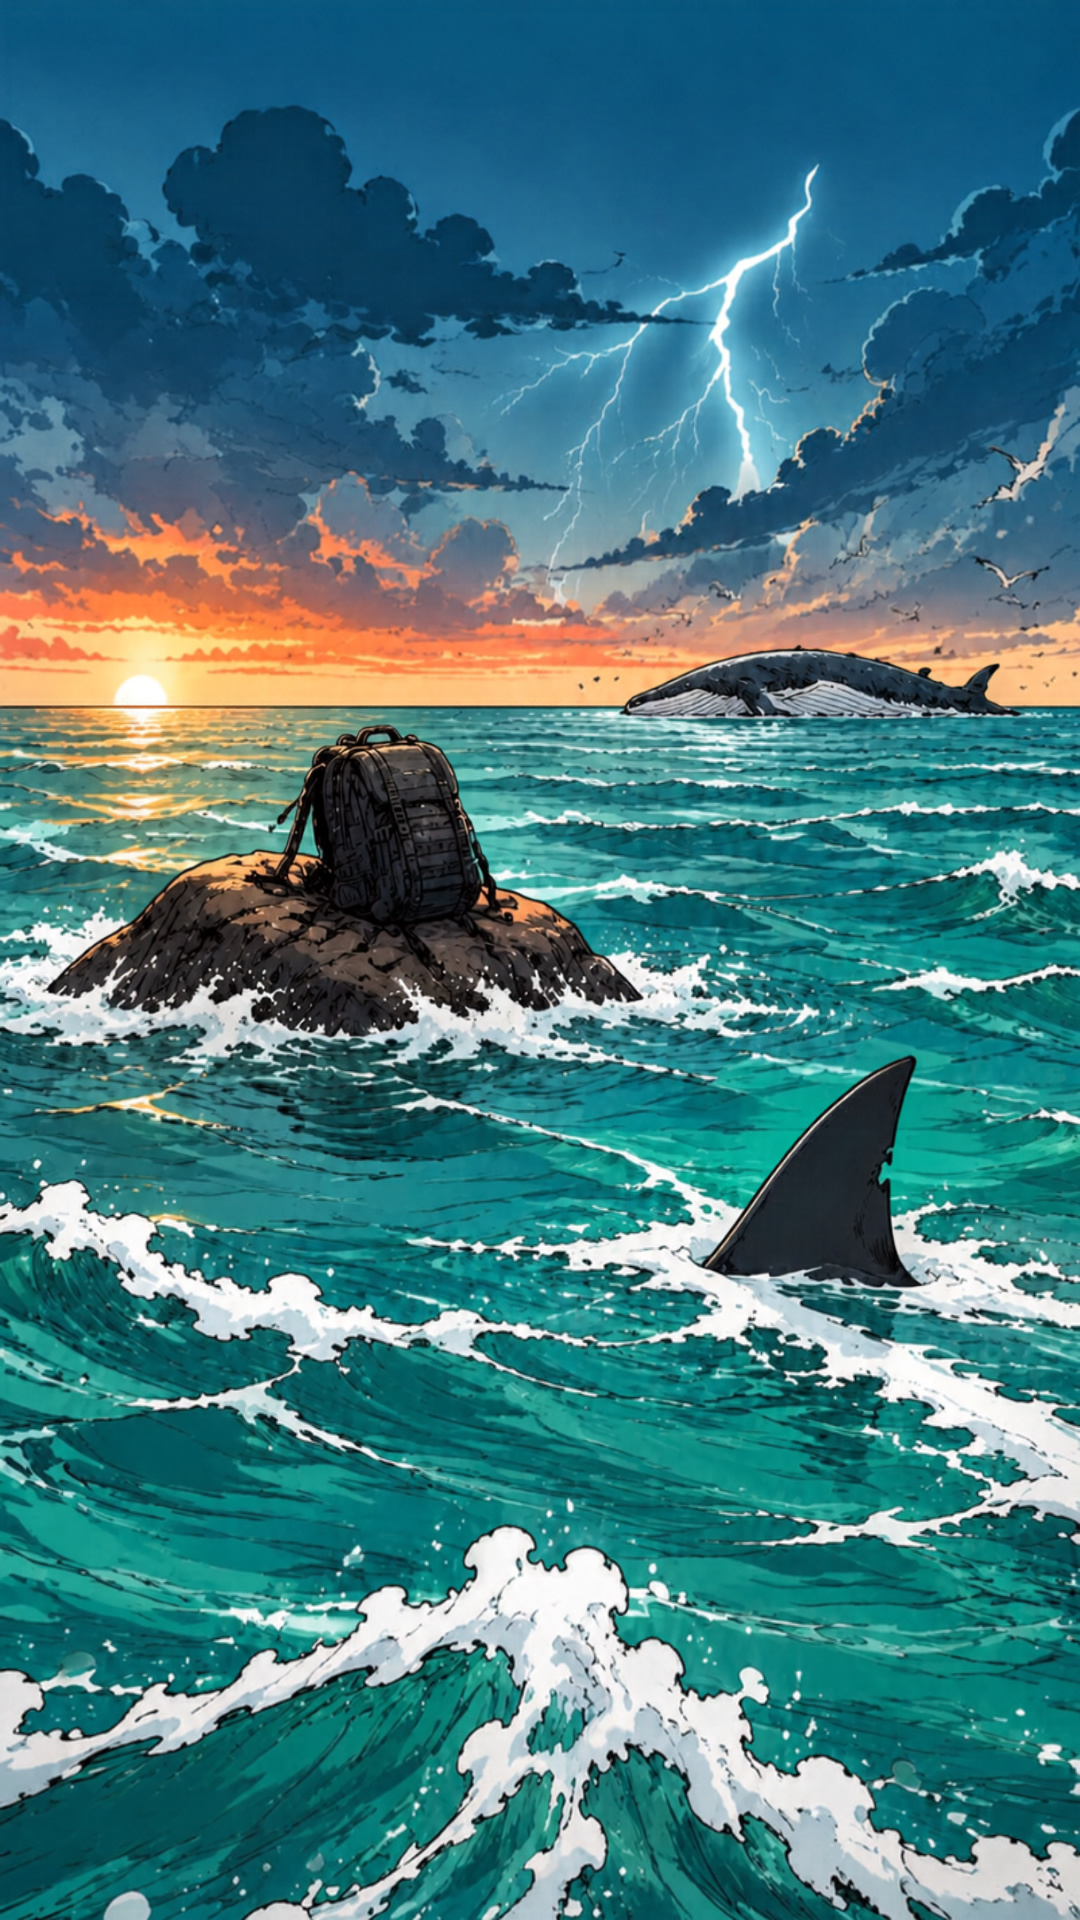
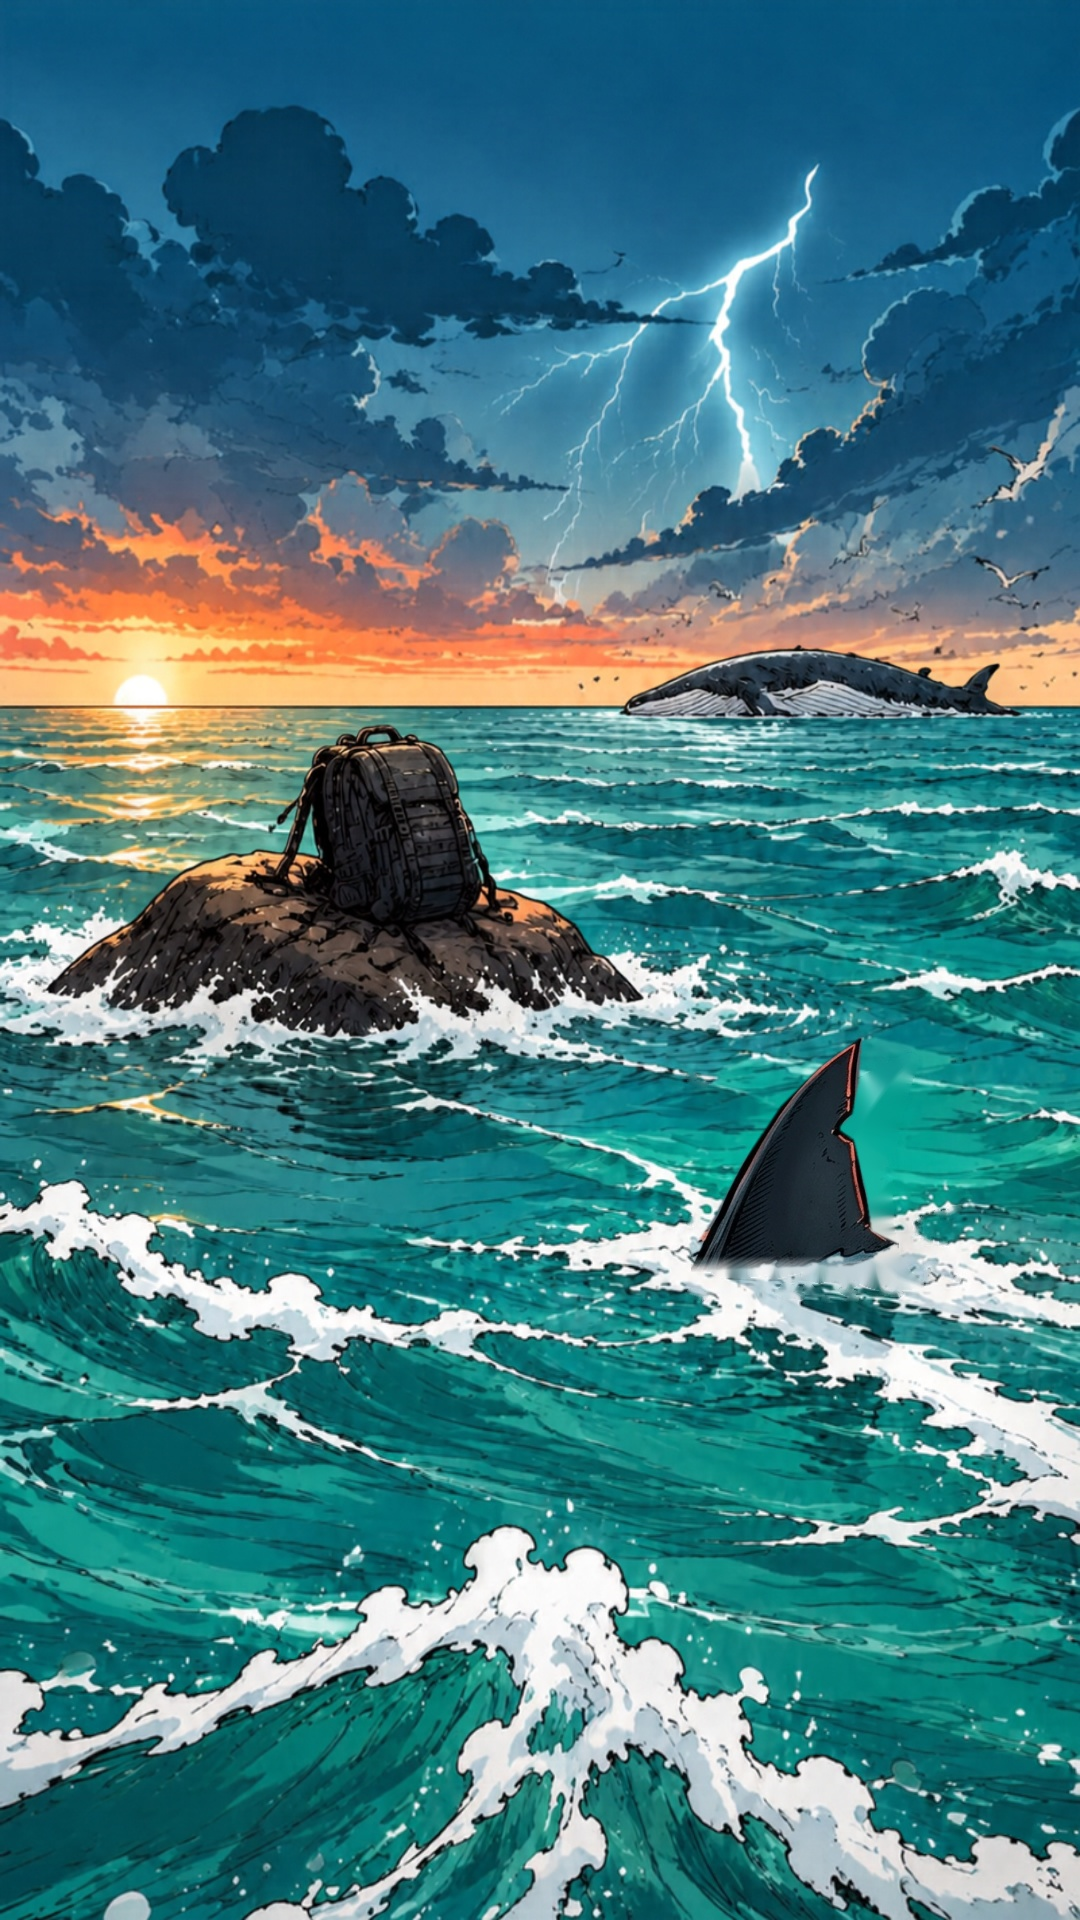
ADA 9: 07, 09a, 09b, 15 yüzgeci kullanıcının beğendiği 08 yüzgeciyle değiştirildi
Claude-Session: https://claude.ai/code/session_014JxJGGMAcsX945kBrKhihb

Changed region(s): [[0.6417, 0.5312, 0.8861, 0.6875]]

diff --git a/hikaye-video/projeler/ada9/yuzgec-08.py b/hikaye-video/projeler/ada9/yuzgec-08.py
@@ -1,0 +1,45 @@
+#!/usr/bin/env python3
+"""Kullanıcının beğendiği 08'deki yüzgeci (çentikli, kırmızı kenarlı) kesip diğer sahnelere koyar.
+Kullanım: python3 yuzgec-08.py <sahne> <kaynak.jpg> <cikti.jpg>   (sahne: 07 | 09a | 09b | 15)"""
+import sys, os, cv2, numpy as np
+G = os.path.join(os.path.dirname(__file__), '..', '..', 'gorseller', 'ada9')
+POLY = [(852, 944), (848, 1000), (840, 1040), (822, 1058), (842, 1072), (858, 1140), (864, 1186), (902, 1204), (840, 1228),
+        (700, 1232), (640, 1236), (642, 1210), (668, 1170), (705, 1100), (752, 1030), (800, 982)]
+CFG = {  # boy: yüzgeç yüksekliği (px), taban: köpüğün durduğu nokta, sil: eski küçük yüzgecin kutusu (koyu piksel silinir)
+    '07': dict(boy=150, taban=(868, 447), sil=(838, 402, 905, 458)),
+    '09a': dict(boy=200, taban=(1243, 798), sil=(1205, 730, 1290, 808)),
+    '09b': dict(boy=235, taban=(795, 1272), sil=(690, 1045, 960, 1300)),
+    '15': dict(boy=390, taban=(620, 1800), sil=None)}
+
+
+def sprite():
+    im = cv2.imread(os.path.join(G, '08.jpg'))
+    m = np.zeros(im.shape[:2], np.uint8); cv2.fillPoly(m, [np.array(POLY, np.int32)], 255)
+    V = cv2.cvtColor(im, cv2.COLOR_BGR2HSV)[..., 2]
+    m &= ((V < 118) | (m > 0) & (np.arange(im.shape[0])[:, None] < 1200)).astype(np.uint8) * 255
+    m = cv2.morphologyEx(m, cv2.MORPH_CLOSE, np.ones((5, 5), np.uint8))
+    ys, xs = np.where(m > 0); b = (xs.min(), ys.min(), xs.max() + 1, ys.max() + 1)
+    return im[b[1]:b[3], b[0]:b[2]], m[b[1]:b[3], b[0]:b[2]]
+
+
+def main():
+    n, src, out = sys.argv[1:4]; c = CFG[n]
+    im = cv2.imread(src); roi, m = sprite()
+    s = c['boy'] / roi.shape[0]
+    roi = cv2.resize(roi, None, fx=s, fy=s, interpolation=cv2.INTER_AREA if s < 1 else cv2.INTER_CUBIC)
+    m = cv2.resize(m, None, fx=s, fy=s, interpolation=cv2.INTER_AREA)
+    if c['sil']:
+        x0, y0, x1, y1 = c['sil']
+        Vb = cv2.cvtColor(im[y0:y1, x0:x1], cv2.COLOR_BGR2HSV)[..., 2]
+        d = np.zeros(im.shape[:2], np.uint8); d[y0:y1, x0:x1] = (Vb < 70).astype(np.uint8) * 255
+        im = cv2.inpaint(im, cv2.dilate(d, cv2.getStructuringElement(cv2.MORPH_ELLIPSE, (7, 7))), 5, cv2.INPAINT_TELEA)
+    h, w = roi.shape[:2]; tx = int(c['taban'][0] - w / 2); ty = int(c['taban'][1] - h)
+    a = cv2.GaussianBlur(m, (0, 0), 0.9).astype(np.float32)[..., None] / 255
+    # alt kenarı suya doğru yumuşakça sönsün
+    fade = np.clip((h - np.arange(h)) / (0.07 * h), 0, 1)[:, None, None]; a = a * fade
+    f = im.astype(np.float32)
+    f[ty:ty + h, tx:tx + w] = f[ty:ty + h, tx:tx + w] * (1 - a) + roi.astype(np.float32) * a
+    cv2.imwrite(out, np.clip(f, 0, 255).astype(np.uint8), [cv2.IMWRITE_JPEG_QUALITY, 95]); print('tamam', n, w, h)
+
+
+main()
